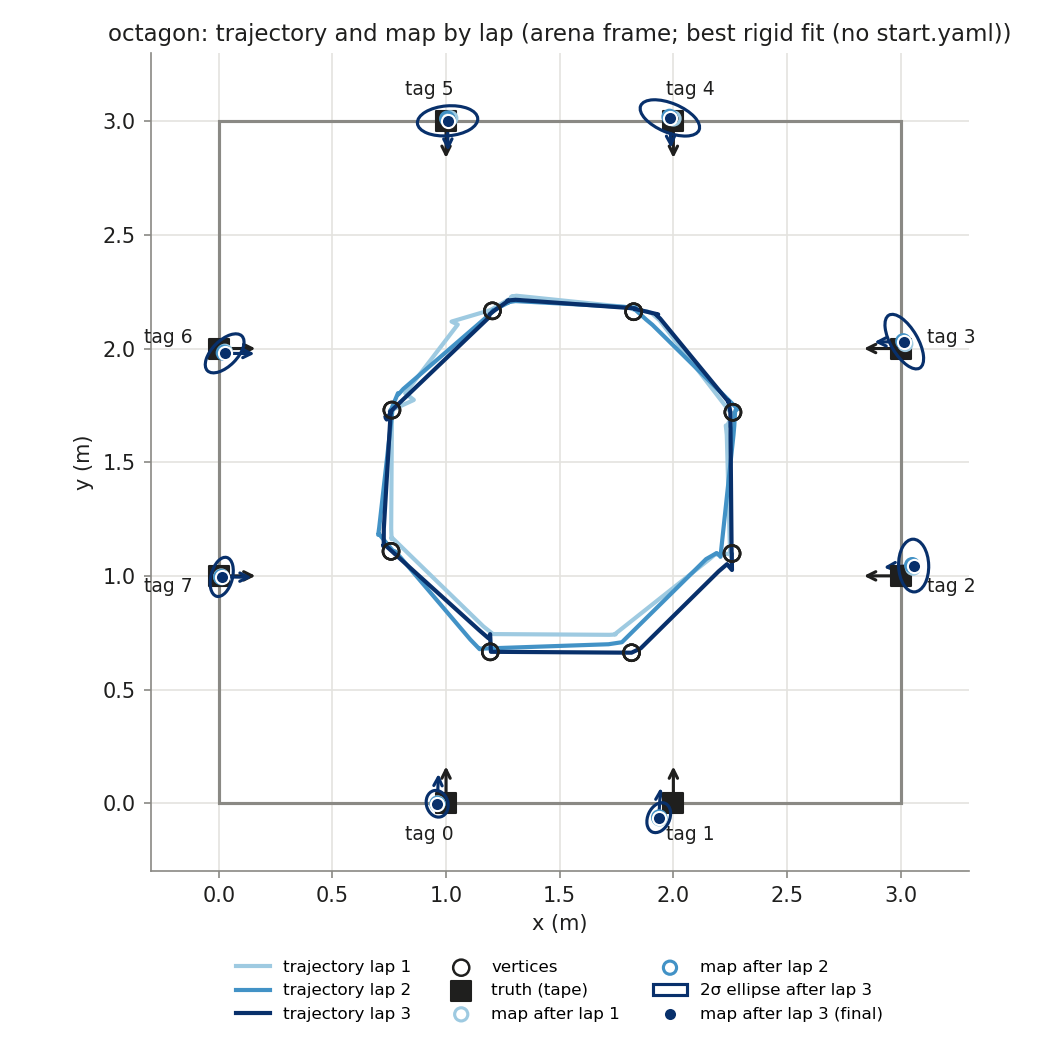
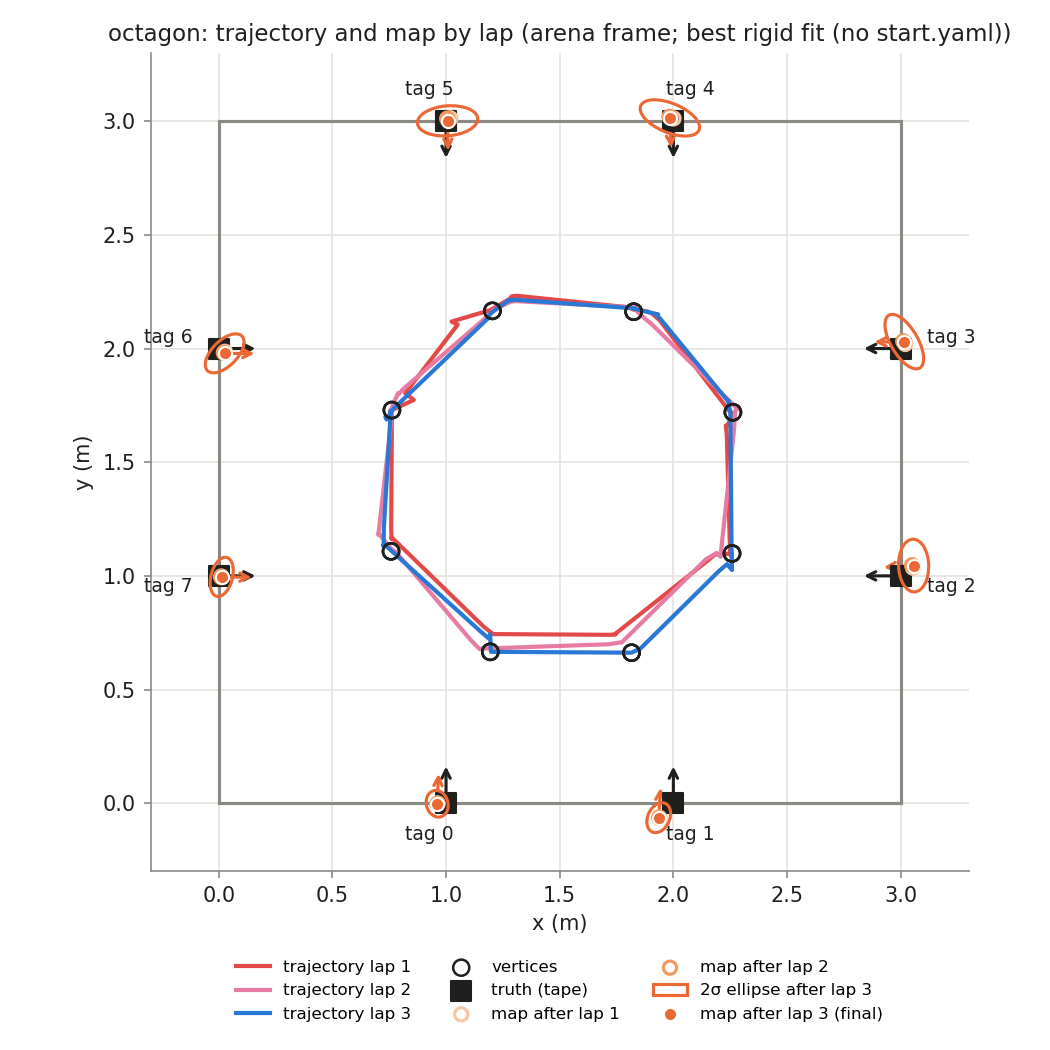
update the map drawing script: lap colours
trajectory red / pink / blue for laps 1-3, landmark estimates back in the
orange series (light to full orange per lap).

diff --git a/HW3/report_run.py b/HW3/report_run.py
@@ -306,14 +306,15 @@ def style(ax):
     ax.tick_params(colors=MUTED, labelcolor=INK)
 
 
-LAP_COLORS = ['#9ecae1', '#4292c6', '#08306b']      # light -> dark blue, lap 1 -> 3
+TRAJ_LAP_COLORS = [SERIES[7], SERIES[4], SERIES[0]]     # red, pink, blue: lap 1 -> 3
+LM_LAP_COLORS = ['#f7c59f', '#f29a5c', SERIES[1]]        # light -> full orange: lap 1 -> 3
 
 
-def lap_color(lap, n_laps):
-    """Colour of lap `lap` (1-based) when there are n_laps laps."""
+def lap_color(lap, n_laps, palette):
+    """Colour of lap `lap` (1-based) out of n_laps, spread over the palette."""
     if n_laps <= 1:
-        return LAP_COLORS[-1]
-    return LAP_COLORS[round((lap - 1) * (len(LAP_COLORS) - 1) / (n_laps - 1))]
+        return palette[-1]
+    return palette[round((lap - 1) * (len(palette) - 1) / (n_laps - 1))]
 
 
 def lap_of_rows(phase):
@@ -347,7 +348,8 @@ def plot_map(phase, truth, out_path):
         if idx[0] > 0:
             idx = [idx[0] - 1] + idx
         ax.plot([traj[k].x for k in idx], [traj[k].y for k in idx], '-',
-                color=lap_color(lap, n_laps), lw=2, label=f'trajectory lap {lap}',
+                color=lap_color(lap, n_laps, TRAJ_LAP_COLORS), lw=2,
+                label=f'trajectory lap {lap}',
                 zorder=2 + lap)
     goals = [map_eval.to_arena(T, Pose2(float(w['goal_x']), float(w['goal_y']), 0.0))
              for w in phase['wps']]
@@ -364,10 +366,11 @@ def plot_map(phase, truth, out_path):
     for lap, snap in snaps[:-1]:
         est = map_eval.poses_to_arena(T, map_eval.snapshot_poses(snap))
         ax.scatter([p.x for p in est.values()], [p.y for p in est.values()], s=40,
-                   facecolors='none', edgecolors=lap_color(lap, n_laps), lw=1.5, zorder=7,
+                   facecolors='none', edgecolors=lap_color(lap, n_laps, LM_LAP_COLORS), lw=1.5,
+                   zorder=7,
                    label=f'map after lap {lap}')
     last_lap, final = snaps[-1]
-    fc = lap_color(last_lap, n_laps)
+    fc = lap_color(last_lap, n_laps, LM_LAP_COLORS)
     est = map_eval.poses_to_arena(T, map_eval.snapshot_poses(final))
     for k, m in enumerate(final['landmarks']):
         p = est[m['id']]
